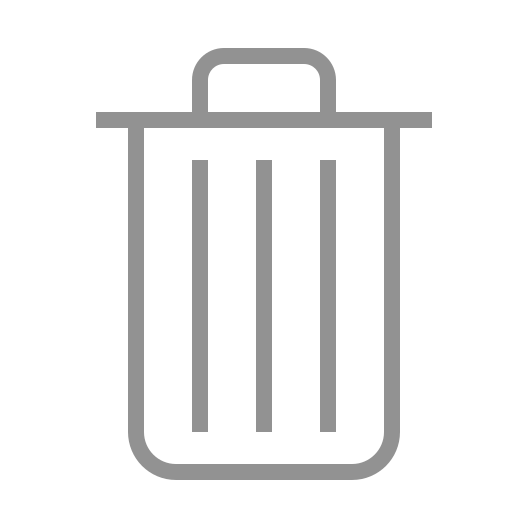
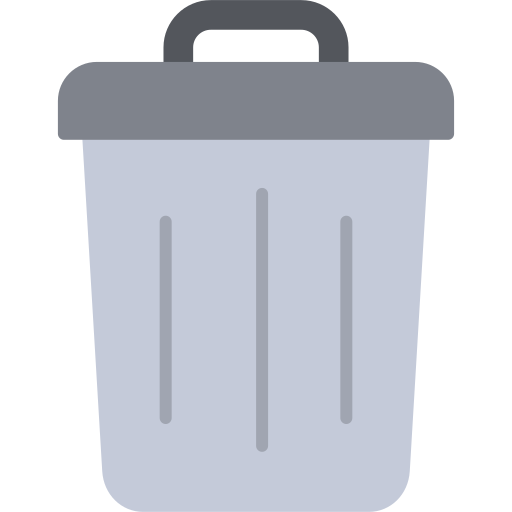
added remove thought

diff --git a/client/src/components/DeleteButton/index.js b/client/src/components/DeleteButton/index.js
@@ -1,41 +1,41 @@
-import React from "react";
-import { REMOVE_THOUGHT } from "../../utils/mutations";
-import { useMutation } from "@apollo/client";
-import { QUERY_ME } from "../../utils/queries";
+// import React from "react";
+// import { REMOVE_THOUGHT } from "../../utils/mutations";
+// import { useMutation } from "@apollo/client";
+// import { QUERY_ME } from "../../utils/queries";
 
-const DeleteButton = ({ thoughtId, isLoggedInUser = false }) => {
-    const [ removeThought ] = useMutation(REMOVE_THOUGHT, {
-        update(cache, {data: {removeThought}}){
-            try{
-                cache.writeQuery({
-                    query: QUERY_ME,
-                    data: { me: removeThought },
-                });
-            } catch (error){
-            console.log(error)
-            }
-        },
-    });
+// const DeleteButton = ({ thoughtId, isLoggedInUser = false }) => {
+//     const [ removeThought ] = useMutation(REMOVE_THOUGHT, {
+//         update(cache, {data: {removeThought}}){
+//             try{
+//                 cache.writeQuery({
+//                     query: QUERY_ME,
+//                     data: { me: removeThought },
+//                 });
+//             } catch (error){
+//             console.log(error)
+//             }
+//         },
+//     });
 
-    const removeThoughtHandler = async (thoughtId) => {
-        try{
-            const {data}= await removeThought({
-                variables: { thoughtId },
-            });
-        console.log(data)
-        } catch (error) {
-        console.log(error)
-        }
-    };
+//     const removeThoughtHandler = async (thoughtId) => {
+//         try{
+//             const {data}= await removeThought({
+//                 variables: { thoughtId },
+//             });
+//         console.log(data)
+//         } catch (error) {
+//         console.log(error)
+//         }
+//     };
 
-    return (
-        <div>
-            <button
-            onClick={() => removeThoughtHandler(thoughtId)}>
-                DELETE
-            </button>
-        </div>
-    )
-}
+//     return (
+//         <div>
+//             <button
+//             onClick={() => removeThoughtHandler(thoughtId)}>
+//                 DELETE
+//             </button>
+//         </div>
+//     )
+// }
 
-export default DeleteButton;
+// export default DeleteButton;

diff --git a/client/src/components/ThoughtList/index.js b/client/src/components/ThoughtList/index.js
@@ -4,6 +4,7 @@ import profile from "../../images/profile.png";
 import { QUERY_ME } from "../../utils/queries";
 import { useMutation } from '@apollo/client';
 import { REMOVE_THOUGHT } from "../../utils/mutations";
+import trashcan from "../../images/trashcan.png"
 
 const ThoughtList = ({
     thoughts,
@@ -23,10 +24,10 @@ const ThoughtList = ({
         },
     });
 
-    const removeThoughtHandler = async ( thoughts ) => {
+    const removeThoughtHandler = async ( thoughtId ) => {
         try{
-            const { data} = await removeThought({
-                variables: {thoughts},
+            const { data } = await removeThought({
+                variables: {thoughtId},
             });
             console.log(data)
         } catch (error) {
@@ -65,20 +66,26 @@ const ThoughtList = ({
                 <p className="mb-2 tracking-tight text-gray-700">{thought.thoughtText}</p>      
                 </div>
 
-                {isLoggedInUser && (
-                <button
-                onClick={() => removeThoughtHandler (thought)}>
-                DELETE
-                </button>
-                )}
-
                 <Link 
                 className="text-sm font-medium underline tracking-tight text-indigo-600"
                 to= {`/thoughts/${thought._id}`}> Comments 
                 </Link>
-                
+              
+                {isLoggedInUser && (
+                <button
+                onClick={() => removeThoughtHandler (thought._id)}
+                className="float-right"
+                passive= "true">
+  
+                <img
+                src={trashcan}
+                className="mb-10 "
+                alt="trashcan" 
+                width="25px">
+                </img>
 
-
+                </button>
+                )}
 
 
         </div>

diff --git a/client/src/pages/Profile.js b/client/src/pages/Profile.js
@@ -43,6 +43,7 @@ const Profile = () => {
            <ThoughtList
             thoughts={user.thoughts}
             showUsername={true}
+            isLoggedInUser={!userParam && true}
           />
 
         </div>

diff --git a/client/src/pages/Home.js b/client/src/pages/Home.js
@@ -23,7 +23,9 @@ const Home = () => {
           ) : (
         <ThoughtList 
         title= "Discussions"
-        thoughts= {thoughts}/>
+        thoughts= {thoughts}
+        />
+
          )}
         </div>
 
